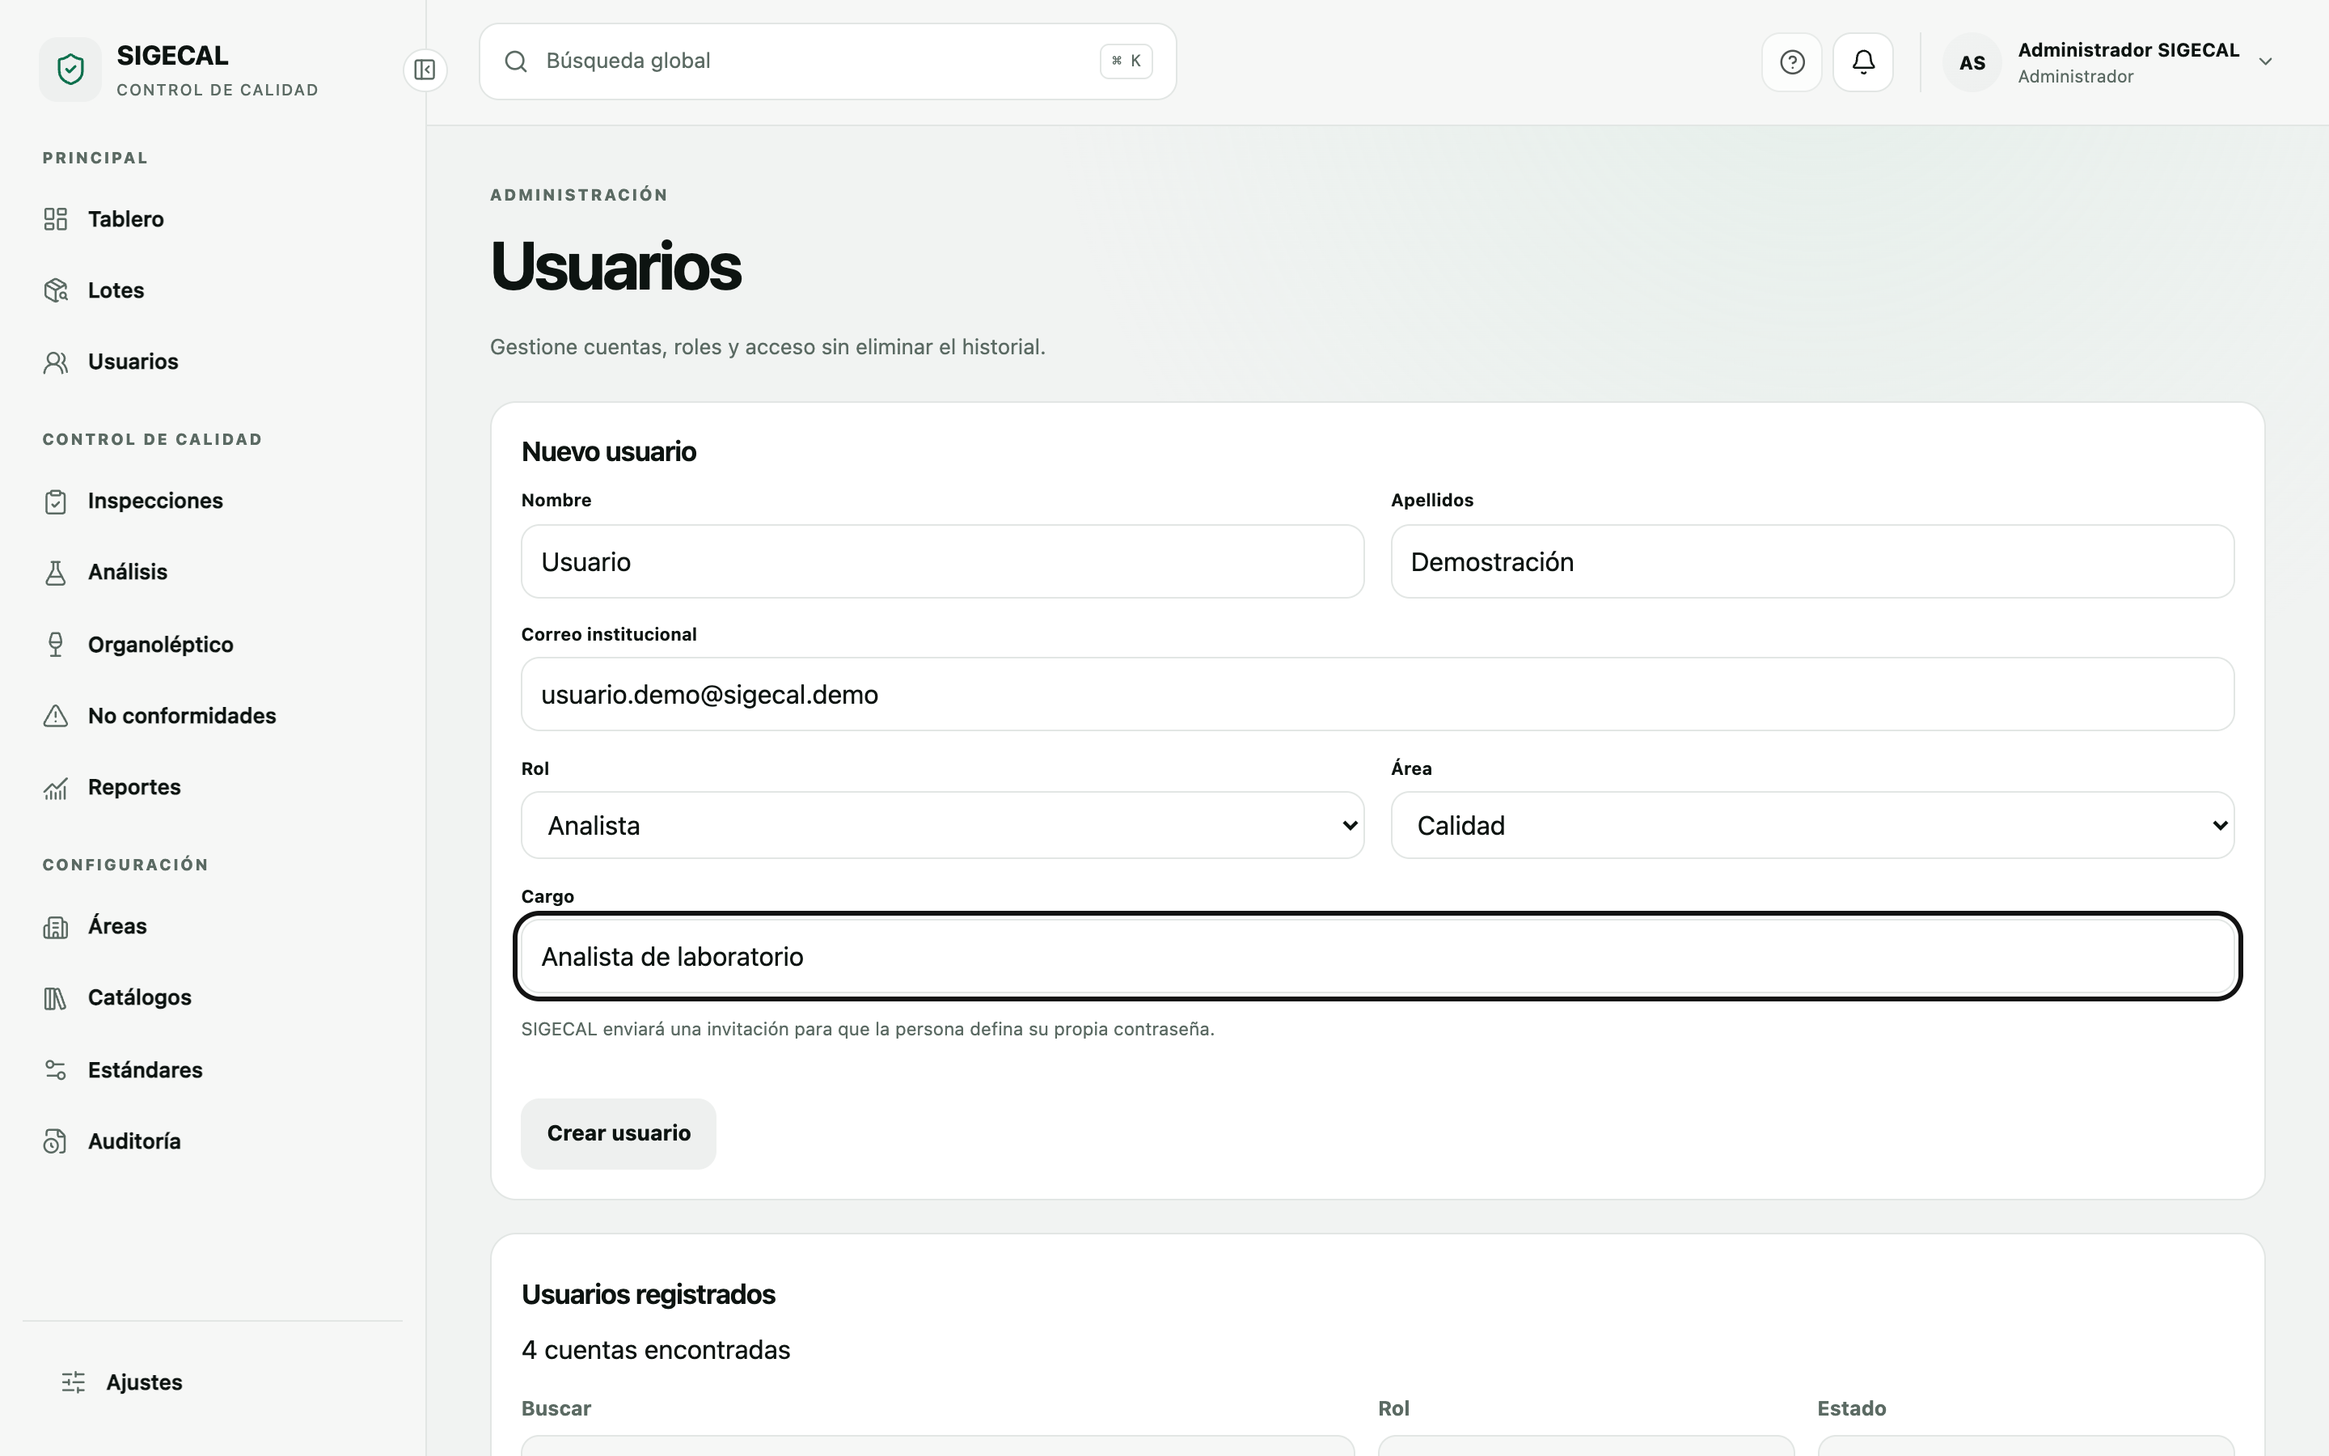
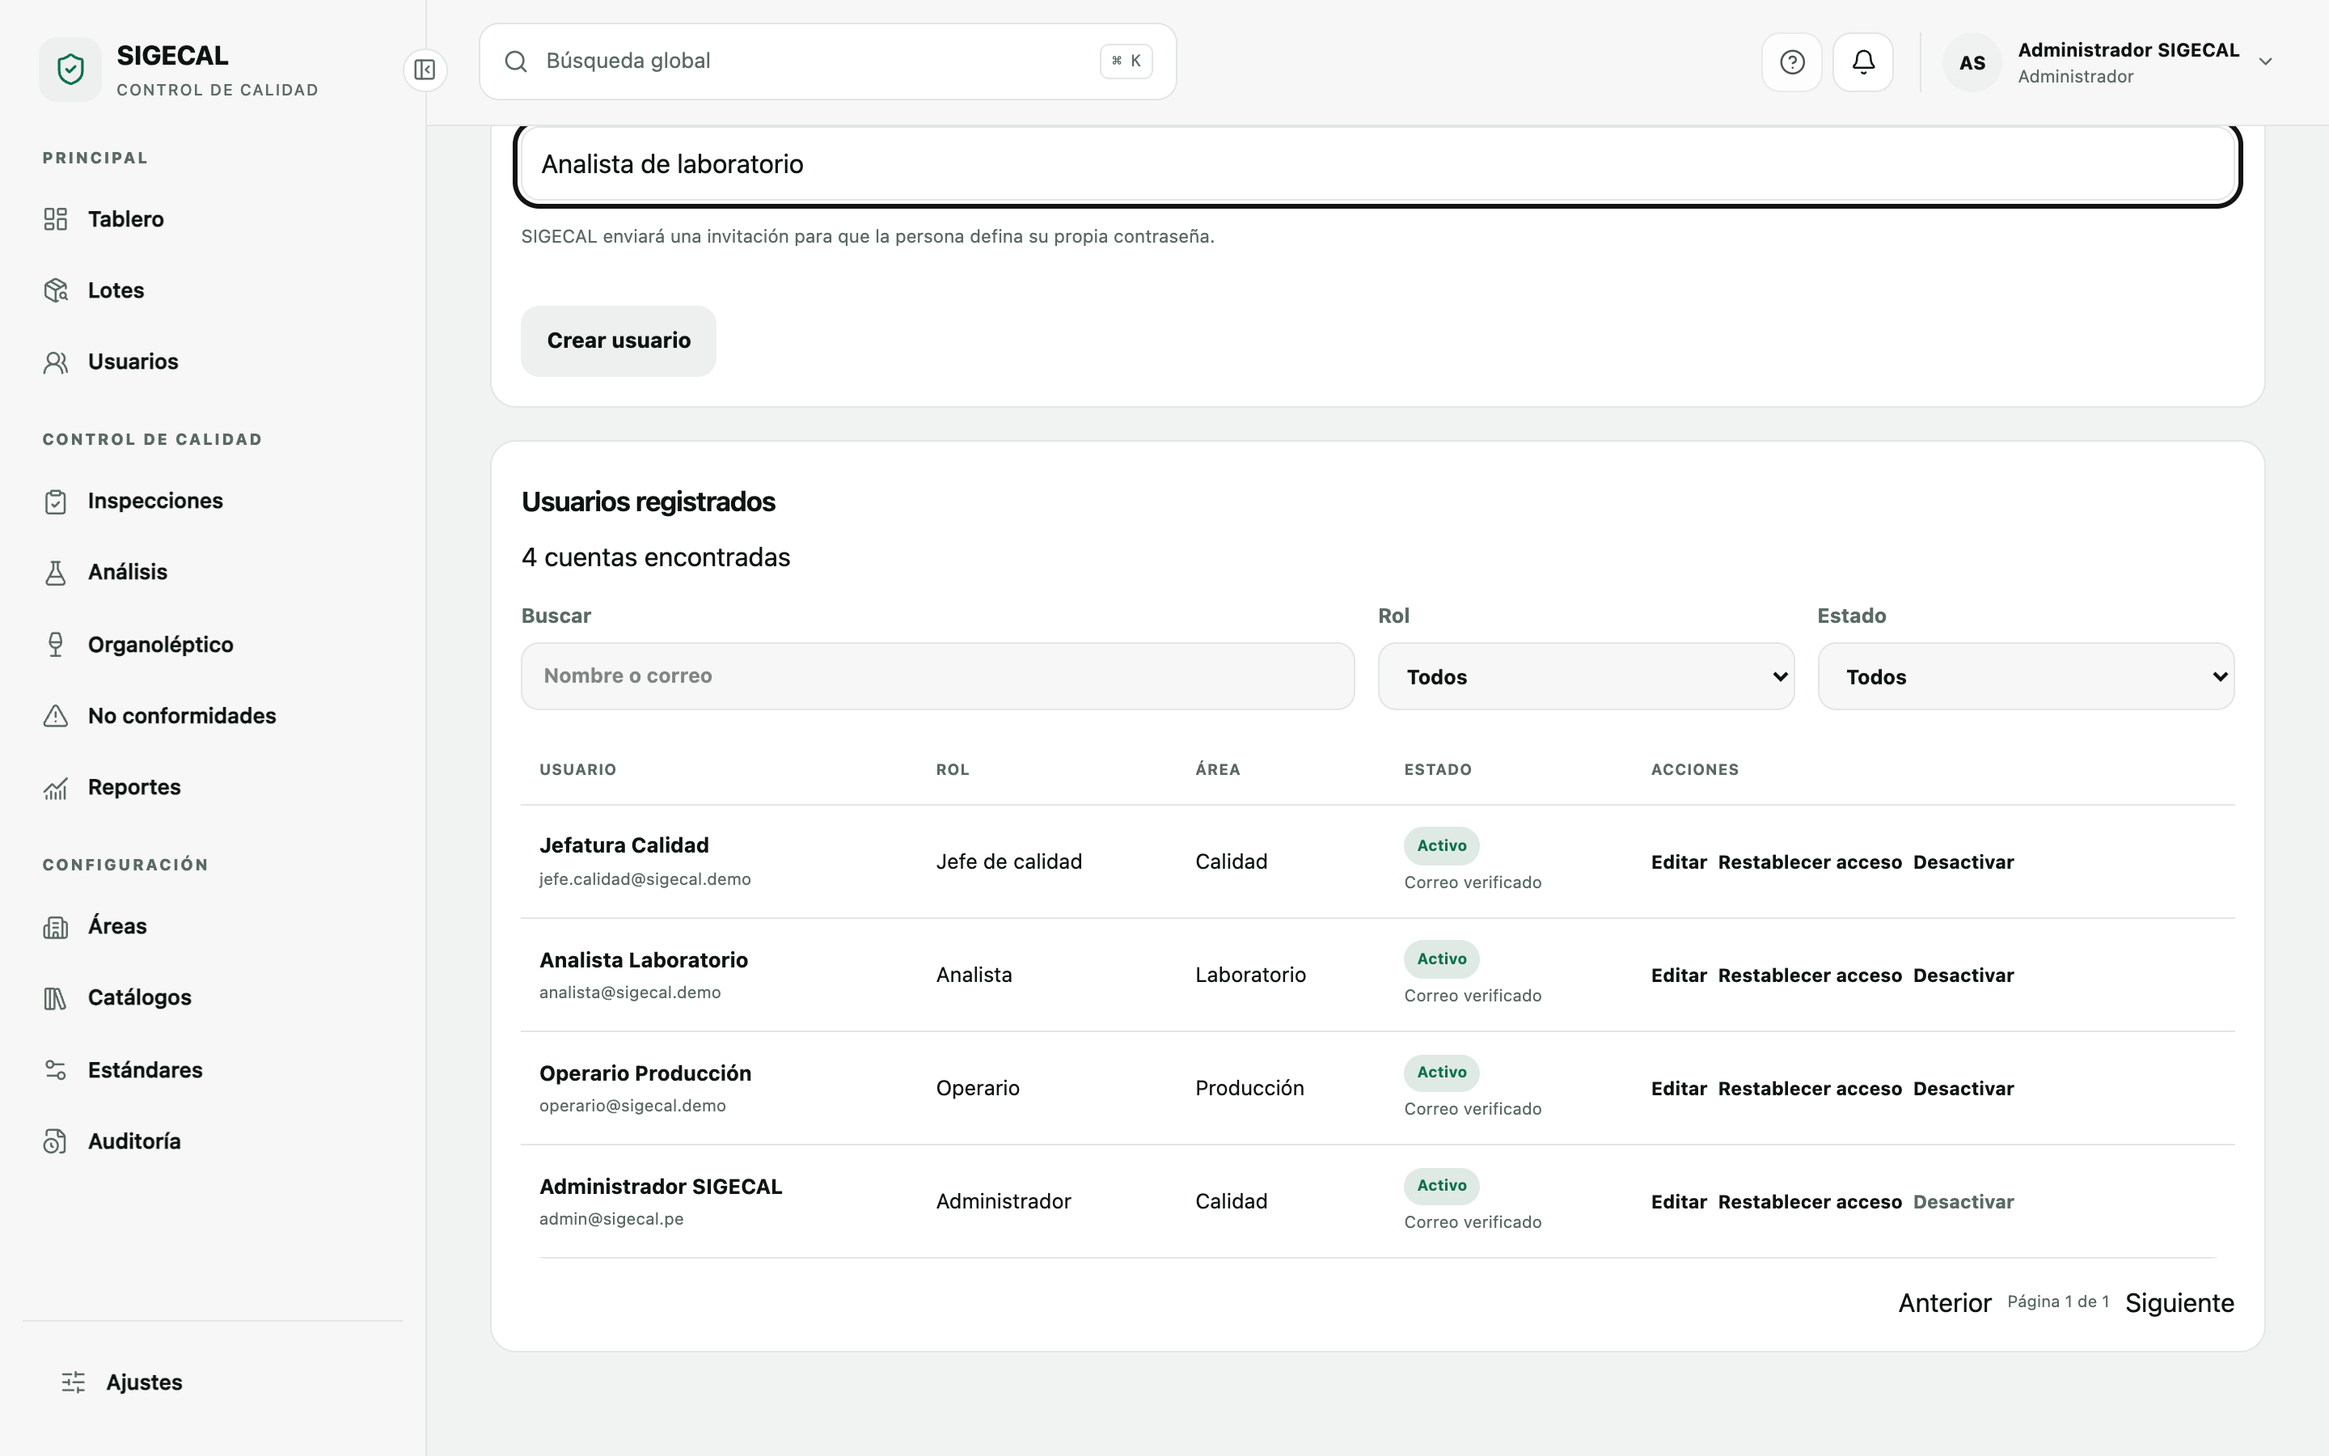
docs(tesis): actualiza checklist de cierre y captura CU01-2
- Marca como hechos los sprints T1 y T2a y el avance de T2b: CU003–CU008,
  base de datos de 10 tablas, RF, capítulo III, recorte para Turnitin y
  kit del pre-test.
- Registra que el pre-test no se ha aplicado y su ruta hasta el post-test.
- Agrega las diferencias entre documentación y código halladas al revisar
  CU003–CU008 (sección 5.1.2).
- Reemplaza la captura CU01-2 por la lista de usuarios correcta.

diff --git a/docs/20-PLAN-CIERRE-TESIS.md b/docs/20-PLAN-CIERRE-TESIS.md
@@ -1,6 +1,6 @@
 # 20 · PLAN DE CIERRE: TESIS Y SOFTWARE
 
-**Corte:** 01/11/2026
+**Corte:** 01/11/2026 (actualizado con el avance de la tesis editada y la decisión de formular el pre-test)
 
 **Fuentes:**
 
@@ -80,22 +80,33 @@ séptimo módulo opcional, solo si el límite de palabras lo permite.
 
 ### 4.1 Para la clase S11 (02/11): mínimo presentable
 
-- [ ] Insertar las capturas (2 por CU, ya listas en `output/capturas-tesis/`), con la nota: «Captura del sistema SIGECAL con datos de demostración».
-- [ ] Separar el inicio de sesión como CU02.
-- [ ] Ajustar los roles a 4 en la Tabla 5 (actores), en RF01 de la Tabla 2 y en los textos.
-- [ ] Pasar las 12 tablas a APA 7: sin líneas verticales ni sombreado; solo bordes horizontales (arriba, bajo el encabezado y abajo).
+Hecho el 01/11 en `TESIS_NICOLLE_FINAL_editada.docx` (el original queda intacto).
+
+- [x] Insertar las capturas (2 por CU, ya listas en `output/capturas-tesis/`), con la nota: «Captura del sistema SIGECAL con datos de demostración».
+- [x] Separar el inicio de sesión como CU02, con caso de uso, tabla, diagramas de actividades y secuencia y capturas.
+- [x] Reescribir CU01 como registro por invitación, con diagramas nuevos.
+- [x] Ajustar los roles a 4 en la Tabla 5 (actores), en RF01–RF02 y en los textos.
+- [x] Pasar las tablas a APA 7: sin líneas verticales ni sombreado; solo bordes horizontales (arriba, bajo el encabezado y abajo).
+- [x] Renumerar casos de uso, tablas y gráficos, y regenerar el índice y las listas con páginas reales.
+- [ ] Revisar en Microsoft Word los números del índice y las listas: se calcularon con LibreOffice.
 
 ### 4.2 Para S12 (09/11): capítulos IV y V completos
 
-- [ ] Reescribir los casos de uso según la sección 2. Prioridad: CU06 organoléptico, CU08 reportes, CU01/CU02 y CU03.
-- [ ] Rehacer los diagramas de actividades y secuencia afectados: CU01, CU02 (nuevo), CU03, CU06 y CU08. Ajustes menores en CU04, CU05 y CU07.
-- [ ] Ajustar los RF de la Tabla 2 que describen funciones inexistentes: RF02 (contraseña temporal), RF04 (disponibilidad), RF06 (parcela), RF10 (zona de riesgo), RF12 (código aleatorio), RF14 (dispersión), RF17 (reposo de 3 meses) y RF18 (certificado).
-- [ ] 4.2.3: dejar unas 10 tablas reales (`User`, `Batch`, `BatchStage`, `Inspection`, `Parameter`, `Standard`, `PhysChemResult`, `SensorySession`, `NonConformity`, `CorrectiveAction`), reducir la Tabla 4 y usar un diagrama general más un máximo de 2 de detalle.
-- [ ] Recortar para Turnitin. Hoy hay unas 23 300 palabras (conteo aproximado desde el PDF); la meta es quedar en unas 20 000 antes de agregar estadística, discusión y conclusiones.
-  - Capítulo II: de 8 488 a unas 5 000 palabras.
-  - Capítulo IV: de 9 164 palabras; acortar las narraciones de flujo.
-  - Las capturas no suman palabras.
-- [ ] Capítulo III: agregar la Tabla de población (15 colaboradores: 1 jefe y 14 empleados) y la Tabla de muestra (censal); confirmar con el asesor. Corregir la frase inicial, que anuncia población y muestra inexistentes, y quitar "maquinarias agrícolas" e "inventarios" de 3.2.2.
+Avance del 01/11 en `TESIS_NICOLLE_FINAL_editada_v2.docx` (135 páginas, unas 19 900 palabras en total):
+
+- [x] Rehacer el Gráfico 9 (diagrama general) con los 4 roles: heredan «Iniciar sesión» del actor Usuario del sistema.
+- [x] Capítulo III: 3.4 Población y muestra con la Tabla 1 (15 colaboradores: 1 jefe de área y 14 empleados) y la Tabla 2 (muestra censal). Las demás tablas pasan a ser 3–15. Se corrigió la frase inicial y se quitaron "inventarios" y "maquinarias agrícolas" de 3.2.2. Falta confirmar la población con el asesor.
+- [x] Recortar el capítulo II para Turnitin: de unas 8 500 a unas 3 200 palabras, sin perder ninguna cita. Se quitaron cifras atribuidas a autores que no se pudieron verificar y lo que contradecía al sistema (microservicios como arquitectura, incertidumbre y "zona de riesgo", comparación de panelistas).
+- [ ] Verificar contra las fuentes originales las citas del capítulo II, que parecen redactadas con IA.
+
+Avance del 01/11 en `TESIS_NICOLLE_FINAL_editada_v3.docx` (116 páginas, unas 18 600 palabras):
+
+- [x] Reescribir CU003–CU008 según el código de SIGECAL: texto, tabla de especificación y diagramas de caso de uso, actividades y secuencia. CU003 pasa a «Programar inspecciones» y CU008 a «Cerrar lote y generar reportes»; los nombres de los demás se mantienen.
+- [x] Rehacer los diagramas: los 24 de CU001–CU008, el Gráfico 3 (modelo de negocio con los 4 roles) y el Gráfico 9 (sin notificaciones por correo: el sistema solo envía correos de acceso).
+- [x] Ajustar los RF de la tabla de requerimientos funcionales (ahora Tabla 4) y quitar sus encabezados repetidos. También se alineó la descripción del modelo de negocio (4.2.1.3).
+- [x] 4.2.3: 10 tablas reales (`User`, `Batch`, `BatchStage`, `Inspection`, `Parameter`, `Standard`, `PhysChemResult`, `SensorySession`, `NonConformity`, `CorrectiveAction`) en la Tabla 6, un diagrama general y 2 de detalle. Los gráficos pasan a ser 47.
+- [ ] Revisar en Word el capítulo IV completo: al quitar los saltos por página del PDF, el texto fluye de forma continua.
+- [ ] Mantener el total por debajo de 25 000 palabras al agregar estadística, discusión y conclusiones (hoy unas 19 900). Al reescribir CU003–CU008, acortar las narraciones de flujo del capítulo IV (unas 10 300 palabras).
 - [ ] Parte estadística: seguir lo que explique el asesor en S11, con SPSS y los datos pareados del pre-test y post-test (ver sección 6).
 - [ ] Discusión: contrastar los resultados con los antecedentes del capítulo II.
 - [ ] Conclusiones (una por objetivo: general y 3 específicos) y recomendaciones.
@@ -107,7 +118,7 @@ séptimo módulo opcional, solo si el límite de palabras lo permite.
 - [ ] Anexos según lo que indique el asesor en S12: matriz de consistencia, operacionalización e instrumentos (Anexos 4 y 5), con las presentaciones corregidas (inconsistencias 8, 11, 12 y 15 de `01-ANALISIS-TESIS.md`).
 - [ ] Inconsistencias de `01-ANALISIS-TESIS.md` que siguen en el PDF:
   - 3: "UML como metodología" en 1.3. UML es un lenguaje; la metodología es Scrum.
-  - 4: "maquinarias agrícolas" en 3.2.2.
+  - ~~4: "maquinarias agrícolas" en 3.2.2.~~ Corregida el 01/11.
   - 5: delimitación temporal set. 2025 – ago. 2026.
   - 6: la introducción promete módulos fuera de alcance.
   - 10: la portada dice 2025.
@@ -139,6 +150,23 @@ Las 17 capturas y el PDF están en `output/capturas-tesis/` (carpeta sin version
 - [ ] Entorno local: yallego ocupa 5434, 1025 y 8025. En `.env` (sin versionar) SIGECAL pasó a PostgreSQL 5436 y Mailpit 1026/8026; hay copia previa en `.env.backup-capturas`.
 - [ ] Las cuentas técnicas del seed ya cambiaron la contraseña provisional; la nueva está en `.env` como `CAPTURAS_PASSWORD`.
 
+### 5.1.2 Diferencias entre documentación y código (revisión de CU003–CU008, 01/11/2026)
+
+Ninguna se corrigió en el software. La tesis describe lo que hace el código.
+
+- [ ] La web no tiene botón para corregir un resultado fisicoquímico; la corrección solo existe en la API.
+- [ ] La no conformidad automática no notifica al jefe de calidad, aunque `08-UX-FLUJOS.md` lo indica. Programar una inspección tampoco avisa en ese momento: los avisos llegan 48 h antes y al vencer.
+- [ ] El aviso de falta de estándar muestra el UUID del parámetro en lugar de su nombre.
+- [ ] La observación por parámetro no se puede capturar desde la interfaz.
+- [ ] El ADMIN puede verificar y cerrar no conformidades: la matriz de permisos lo permite, pero RF-M7-14 dice solo JEFE_CALIDAD.
+- [ ] Ningún flujo usa el estado `EN_ANALISIS` de la no conformidad.
+- [ ] No hay pantalla web para las plantillas de inspección; reasignar el equipo solo se puede por la API.
+- [ ] Sin umbral sensorial vigente, `/sensory/preparation` responde 404 y el contrato dice 422.
+- [ ] El QR del lote solo se genera en SVG; el contrato dice PNG o SVG.
+- [ ] Con el lote cerrado todavía se puede registrar una no conformidad (RF-M3-10), y el cierre no exige estar en Embotellado.
+- [ ] El contrato lista extremos de KPI sueltos, pero el código solo tiene `/reports/dashboard`.
+- [ ] Las capturas CU06-1 y CU06-2 muestran 6 y 5 atributos sensoriales, respectivamente.
+
 ### 5.2 Pendientes de Sprint 7 (`17-CHECKLIST-SPRINT-7.md`)
 
 - [ ] Recorrer todas las vistas con teclado y comprobar orden y foco visible.
@@ -169,20 +197,28 @@ Las 17 capturas y el PDF están en `output/capturas-tesis/` (carpeta sin version
 El asesor espera la parte estadística para S12 (09/11). El diseño preexperimental
 exige este orden (ver `01-ANALISIS-TESIS.md`):
 
-1. [ ] Pre-test (Anexo 5) a los 15 colaboradores **antes** de darles acceso a SIGECAL. Confirmar si ya se aplicó.
-2. [ ] Piloto con la duración y los participantes aprobados por el asesor.
-3. [ ] Post-test: Anexo 5 y Anexo 4.
-4. [ ] Tabulación en SPSS con código seudónimo por participante; prueba para muestras relacionadas definida con el asesor.
+**Estado al 01/11: el pre-test no se ha aplicado.** Ningún colaborador debe
+recibir credenciales de SIGECAL antes de responderlo.
 
-> Si no hay tiempo para un piloto real antes del 09/11, hay que plantearlo al
-> asesor en S11. Nunca se completan respuestas ni resultados que no se hayan
-> recolectado.
+1. [x] Preparar el kit del pre-test (`Descargas/KIT_PRETEST_ANEXO5/`): cuestionario del Anexo 5 (27 ítems, Likert 1–5) con consentimiento informado, guía de aplicación y análisis en SPSS, y plantilla de tabulación con baremos. Si existe el texto del Anexo 5 aprobado en el proyecto, se usa ese texto exacto.
+2. [ ] S11 (02/11): presentar al asesor el instrumento, la duración del piloto y la prueba estadística propuesta (Shapiro-Wilk por ser n < 50; luego t de Student para muestras relacionadas o Wilcoxon).
+3. [ ] Si el asesor lo pide, validar el instrumento por juicio de 3 expertos y calcular el alfa de Cronbach con los datos del pre-test.
+4. [ ] Pre-test (Anexo 5) a los 15 colaboradores **antes** de darles acceso a SIGECAL, con fecha y código seudónimo por participante.
+5. [ ] Piloto con la duración y los participantes aprobados por el asesor.
+6. [ ] Post-test: Anexo 5 y Anexo 4, con el mismo código seudónimo.
+7. [ ] Tabulación en SPSS; tablas y gráficos de resultados por dimensión en el capítulo IV; contraste de la hipótesis general y de las 3 específicas.
+
+> El calendario es ajustado: con el pre-test el 03–04/11, el post-test solo
+> puede aplicarse cuando termine el piloto. Si no hay tiempo para un piloto real
+> antes del 09/11, hay que plantearlo al asesor en S11. Nunca se completan
+> respuestas ni resultados que no se hayan recolectado.
 
 ## 7. Sprints hasta la sustentación
 
 | Sprint | Fechas   | Documento                                                                                                                                        | Software                                                                                                         |
 | ------ | -------- | ------------------------------------------------------------------------------------------------------------------------------------------------ | ---------------------------------------------------------------------------------------------------------------- |
-| T1     | 01–02/11 | Capturas, CU02 de inicio de sesión, 4 roles y tablas APA                                                                                         | Levantar el entorno, recorrer los 8 flujos y capturar                                                            |
-| T2     | 03–08/11 | Realinear casos de uso y diagramas; BD de 10 tablas; recorte para Turnitin; capítulo III; estadística, discusión, conclusiones y recomendaciones | Soporte al piloto: cuentas individuales, prueba en teléfono real, registro de incidencias; pedir rangos a Tacama |
+| T1 ✅  | 01/11    | Capturas, CU02 de inicio de sesión, 4 roles y tablas APA                                                                                         | Levantar el entorno, recorrer los 8 flujos y capturar                                                            |
+| T2a ✅ | 01/11    | Gráfico 9 con 4 roles; capítulo III con población y muestra; recorte del capítulo II para Turnitin; kit del pre-test                             | —                                                                                                                |
+| T2b    | 03–08/11 | CU003–CU008, BD de 10 tablas y RF ✅ (01/11). Falta: pre-test y piloto; estadística, discusión, conclusiones y recomendaciones; revisión en Word | Soporte al piloto: cuentas individuales, prueba en teléfono real, registro de incidencias; pedir rangos a Tacama |
 | T3     | 09–15/11 | Correcciones del asesor, anexos, inconsistencias restantes, índices y pre-Turnitin                                                               | Integrar a `develop`/`main`; decidir entre demo local estable o despliegue (Sprint 8)                            |
 | T4     | 16–22/11 | Versión final, Turnitin en 2 bloques, diapositivas y ensayo                                                                                      | Congelar la versión, preparar datos `DEMO` para la demostración y respaldar                                      |
